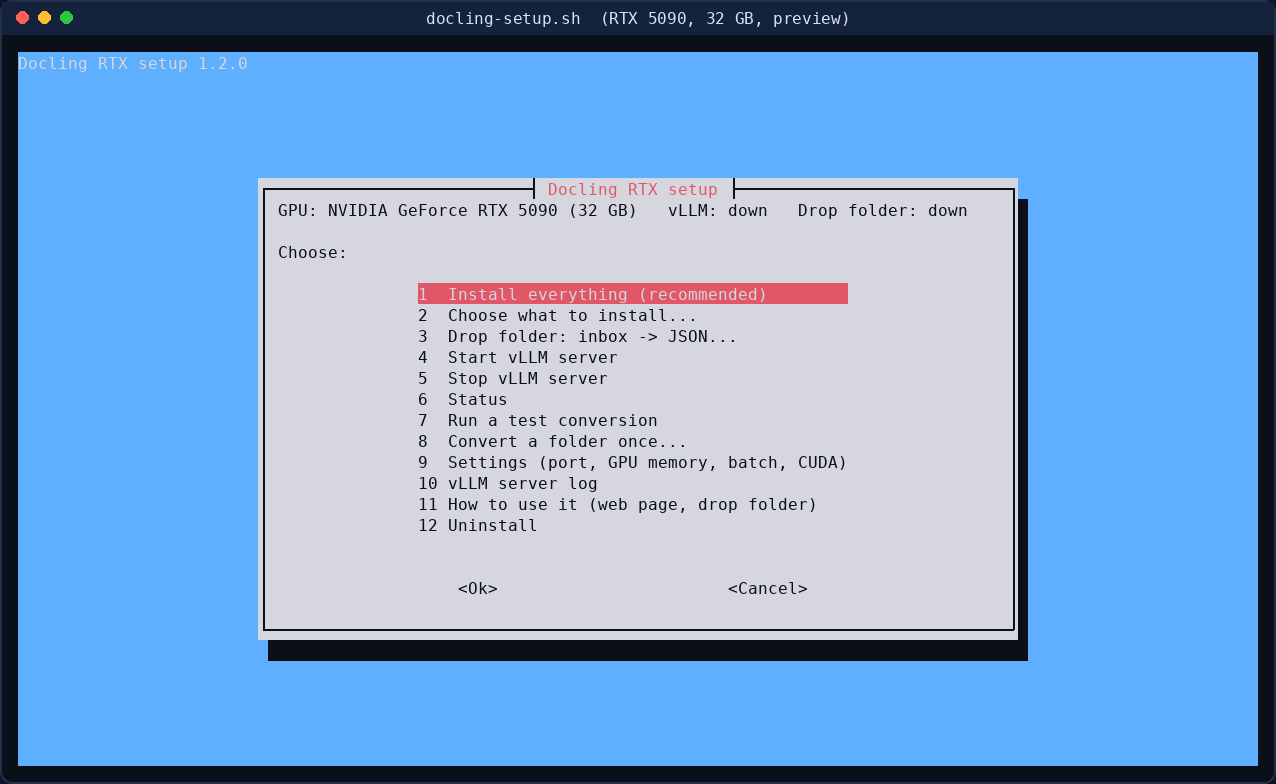
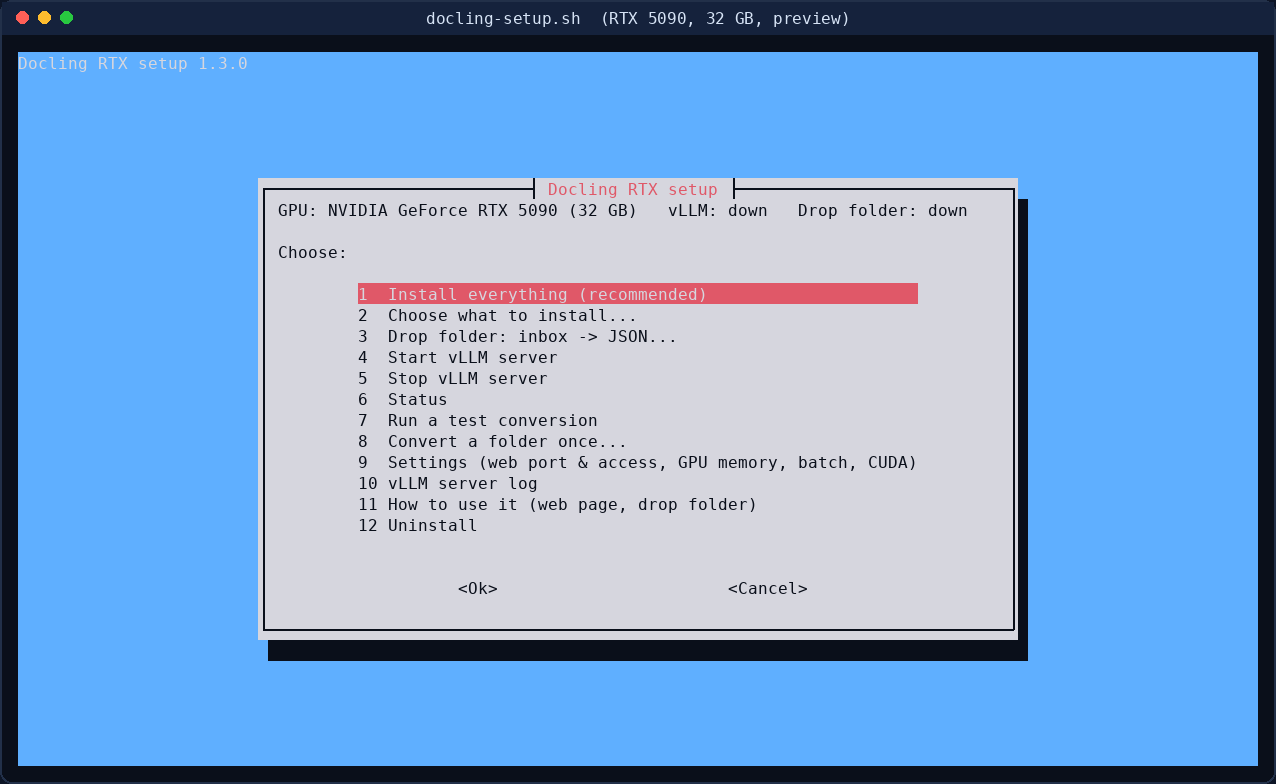
Review fixes (v1.3.0): faster setup, more robust on rented pods
Setup
- vLLM installs on first use (docling-rtx start / vlm engine / WITH_VLM=1), not by default: ~12 GB and minutes saved
- drivers 525-559 use cu126 instead of aborting (common 535/550 pod drivers)
- skip apt when packages are present; warm-up conversion downloads Docling's models during install
- vLLM GPU share: 0.85 with the vlm drop folder, 0.5 when sharing with the standard pipeline

Robustness
- no-systemd: restart loop records the program pid and crashes, so a web page that can't bind its port
  (e.g. Jupyter on 8080) is reported, not shown as UP; stopped services stay stopped; autostart is locked
- Settings: changed vLLM port/memory restarts the running vLLM (whole process group), never a second one
- RunPod: RUNPOD_TCP_PORT_<port> mapping and the HTTPS proxy link
- NO_PROXY for all local traffic (services, converter, Docling's API client)

Converter / web page
- cancel only acts while a conversion runs; timeout reset before each document; late cancel requests cleared
- names with # ? & ' + or non-ASCII: per-segment URL encoding, data attributes instead of inline JS, UTF-8 filenames
- downloads and the outbox zip are streamed (no full copy in RAM)
- uploads/retries start at once (web page pokes the watcher): upload -> JSON in 0.1-0.9 s instead of 5-10 s

diff --git a/web.py b/web.py
@@ -12,10 +12,10 @@ it requires --token (or DOCLING_WEB_TOKEN): open http://HOST:8080/?token=... onc
 
 import argparse
 import hmac
-import io
 import json
 import os
 import shutil
+import tempfile
 import subprocess
 import sys
 import time
@@ -145,6 +145,15 @@ def archive(rel):
     return True
 
 
+def poke(rel):
+    """Wake the watcher now and tell it this inbox file is complete, so it converts it without waiting a scan."""
+    try:
+        with open(Path(A.status_file).expanduser().with_name("poke"), "a") as f:
+            f.write(str(rel) + "\n")
+    except OSError:
+        pass
+
+
 def state():
     inbox, outbox = Path(A.inbox).expanduser(), Path(A.outbox).expanduser()
     try:
@@ -202,6 +211,17 @@ class H(BaseHTTPRequestHandler):
         c = dict(x.strip().split("=", 1) for x in self.headers.get("Cookie", "").split(";") if "=" in x).get("drtx", "")
         return hmac.compare_digest(q, A.token) or hmac.compare_digest(c, A.token)
 
+    def send_file(self, path, ctype, extra=None):
+        """Stream a file (no full copy in memory: a big outbox zip or JSON must not eat the pod's RAM)."""
+        self.send_response(200)
+        self.send_header("Content-Type", ctype)
+        self.send_header("Content-Length", str(path.stat().st_size))
+        for k, v in (extra or {"Cache-Control": "no-store"}).items():
+            self.send_header(k, v)
+        self.end_headers()
+        with open(path, "rb") as f:
+            shutil.copyfileobj(f, self.wfile, 1 << 20)
+
     def send(self, code, body=b"", ctype="text/plain; charset=utf-8", extra=None):
         self.send_response(code)
         self.send_header("Content-Type", ctype)
@@ -237,18 +257,21 @@ class H(BaseHTTPRequestHandler):
             p = self.safe(A.outbox, path[len("/files/"):])
             if not p or not p.is_file():
                 return self.send(404, b"not found")
-            data = p.read_bytes()
+            disp = f"attachment; filename*=UTF-8''{quote(p.name)}"
             ctype = "application/json" if p.suffix == ".json" else "text/plain; charset=utf-8"
-            return self.send(200, data, ctype, {"Content-Disposition": f'attachment; filename="{p.name}"'})
-        if path == "/download/outbox.zip":
-            buf, out = io.BytesIO(), Path(A.outbox).expanduser()
-            with zipfile.ZipFile(buf, "w", zipfile.ZIP_DEFLATED) as z:
-                for f in sorted(out.rglob("*")):
-                    rel = f.relative_to(out)
-                    if f.is_file() and not any(x.startswith(".") for x in rel.parts):
-                        z.write(f, rel)
-            return self.send(200, buf.getvalue(), "application/zip",
-                             {"Content-Disposition": 'attachment; filename="docling-outbox.zip"'})
+            return self.send_file(p, ctype, {"Content-Disposition": disp, "Cache-Control": "no-store"})
+        if path == "/download/outbox.zip":   # built in a temp file on disk, then streamed
+            out = Path(A.outbox).expanduser()
+            with tempfile.NamedTemporaryFile(suffix=".zip") as tmp:
+                with zipfile.ZipFile(tmp, "w", zipfile.ZIP_DEFLATED) as z:
+                    for f in sorted(out.rglob("*")):
+                        rel = f.relative_to(out)
+                        if f.is_file() and not any(x.startswith(".") for x in rel.parts):
+                            z.write(f, rel)
+                tmp.flush()
+                return self.send_file(Path(tmp.name), "application/zip",
+                                      {"Content-Disposition": 'attachment; filename="docling-outbox.zip"',
+                                       "Cache-Control": "no-store"})
         self.send(404, b"not found")
 
     def do_PUT(self):   # upload: PUT /upload/<file name>, raw body
@@ -272,6 +295,7 @@ class H(BaseHTTPRequestHandler):
             tmp.unlink(missing_ok=True)
             return self.send(400, b"upload interrupted")
         os.replace(tmp, inbox / name)
+        poke(name)
         self.send(200, b"ok")
 
     def do_POST(self):   # /retry/<inbox path>: convert again; /cancel/<inbox path>: stop or skip it
@@ -303,6 +327,7 @@ class H(BaseHTTPRequestHandler):
             p = self.safe(A.inbox, path[len("/retry/"):])
             if p and p.is_file():
                 os.utime(p)
+                poke(p.relative_to(Path(A.inbox).expanduser().resolve()))
                 return self.send(200, b"ok")
         self.send(404, b"not found")
 
@@ -345,7 +370,10 @@ button:disabled{opacity:.45;cursor:default}
 <table><thead><tr><th>Document</th><th>Status</th><th>Pages</th><th>Time</th><th>Results</th></tr></thead><tbody id="docs"></tbody></table>
 <p class="dim" id="paths"></p>
 </main><script>
-const $=s=>document.querySelector(s), esc=s=>String(s??'').replace(/[&<>"]/g,c=>({'&':'&amp;','<':'&lt;','>':'&gt;','"':'&quot;'}[c]));
+const $=s=>document.querySelector(s), esc=s=>String(s??'').replace(/[&<>"']/g,c=>({'&':'&amp;','<':'&lt;','>':'&gt;','"':'&quot;',"'":'&#39;'}[c]));
+const enc=p=>String(p).split('/').map(encodeURIComponent).join('/');   // safe for '#', '?', '&', "'", '+' in names
+document.addEventListener('click',e=>{const b=e.target.closest('button[data-act]');if(!b||b.disabled)return;
+  ({cancel:cancelDoc,retry:retry,remove:removeDoc})[b.dataset.act](b.dataset.n)});
 const secs=t=>t==null?'':t<60?Math.round(t)+'s':t<3600?Math.floor(t/60)+'m '+String(Math.round(t%60)).padStart(2,'0')+'s':Math.floor(t/3600)+'h '+String(Math.floor(t%3600/60)).padStart(2,'0')+'m';
 const size=b=>b<1e6?(b/1e3).toFixed(0)+' KB':(b/1e6).toFixed(1)+' MB';
 async function refresh(){
@@ -368,17 +396,17 @@ async function refresh(){
     const left=c.pages_total&&c.pages_done?(c.pages_total-c.pages_done)/rate:null;
     const d=s.docs.find(x=>x.status=='converting'), stopping=d&&d.cancelling;
     const first=c.pages_total&&!c.pages_done?` &middot; the first ${Math.min(s.batch||8,c.pages_total)} pages go through all models together, so page 1 can take a while`:'';
-    $('#cur').innerHTML=`<div class="cur"><div class="curhead"><b>Converting ${esc(c.file)}</b>${d?`<button class="stop" ${stopping?'disabled':''} onclick="cancelDoc('${encodeURI(d.name)}')">${stopping?'Cancelling&hellip;':'Cancel'}</button>`:''}</div><div class="bar"><i style="width:${pct}%"></i></div>
+    $('#cur').innerHTML=`<div class="cur"><div class="curhead"><b>Converting ${esc(c.file)}</b>${d?`<button class="stop" ${stopping?'disabled':''} data-act="cancel" data-n="${esc(d.name)}">${stopping?'Cancelling&hellip;':'Cancel'}</button>`:''}</div><div class="bar"><i style="width:${pct}%"></i></div>
     <span class="dim">${c.pages_total?`page ${c.pages_done} of ${c.pages_total} &middot; `:'loading models / reading the file&hellip; &middot; '}${secs(c.elapsed)} so far${left!=null?` &middot; about ${secs(left)} left`:''}${first}</span></div>`;
   } else $('#cur').innerHTML='';
   $('#docs').innerHTML=s.docs.length?s.docs.map(d=>`<tr><td>${esc(d.name)}<br><span class="dim">${size(d.size)}</span></td>
     <td><span class="st ${d.status}">${d.status}</span>${d.status=='failed'&&d.error?`<div class="err" title="${esc(d.error)}">${esc(why(d.error))}</div>`:''}</td>
     <td>${d.pages||''}</td><td>${d.seconds==null?'':d.seconds<1?'&lt;1s':secs(d.seconds)}</td>
-    <td>${Object.entries(d.files).filter(([f])=>f!='error.json').map(([f,p])=>`<a href="/files/${encodeURI(p)}">${f}</a>`).join('')}
-    ${d.status=='failed'?`<a href="/files/${encodeURI(d.files['error.json'])}">error</a>`:''}
-    ${d.status=='failed'||d.status=='cancelled'?`<button onclick="retry('${encodeURI(d.name)}')">${d.status=='cancelled'?'convert':'retry'}</button>`:''}
-    ${['done','failed','cancelled'].includes(d.status)?`<button title="Remove from the list (the source moves to the archive, the JSON stays)" onclick="removeDoc('${encodeURI(d.name)}')">&times;</button>`:''}
-    ${d.status=='converting'||d.status=='waiting'?`<button class="stop" ${d.cancelling?'disabled':''} onclick="cancelDoc('${encodeURI(d.name)}')">${d.cancelling?'cancelling&hellip;':'cancel'}</button>`:''}</td></tr>`).join('')
+    <td>${Object.entries(d.files).filter(([f])=>f!='error.json').map(([f,p])=>`<a href="/files/${enc(p)}">${f}</a>`).join('')}
+    ${d.status=='failed'?`<a href="/files/${enc(d.files['error.json'])}">error</a>`:''}
+    ${d.status=='failed'||d.status=='cancelled'?`<button data-act="retry" data-n="${esc(d.name)}">${d.status=='cancelled'?'convert':'retry'}</button>`:''}
+    ${['done','failed','cancelled'].includes(d.status)?`<button title="Remove from the list (the source moves to the archive, the JSON stays)" data-act="remove" data-n="${esc(d.name)}">&times;</button>`:''}
+    ${d.status=='converting'||d.status=='waiting'?`<button class="stop" ${d.cancelling?'disabled':''} data-act="cancel" data-n="${esc(d.name)}">${d.cancelling?'cancelling&hellip;':'cancel'}</button>`:''}</td></tr>`).join('')
     :'<tr><td colspan="5" class="dim">No documents yet. Drop some above.</td></tr>';
   $('#paths').textContent=`Inbox: ${s.inbox}   Outbox: ${s.outbox}   Cleared documents: ${s.archive}`;
   const fin=s.docs.filter(d=>['done','failed','cancelled'].includes(d.status)).length;
@@ -395,10 +423,10 @@ function why(e){  // plain-English reason for the common failures; the full text
 async function clearDone(){
   if(!confirm('Remove all finished documents from the list?\nTheir JSON stays in the outbox; the original files move to the archive folder.'))return;
   await fetch('/clear',{method:'POST'});refresh()}
-async function removeDoc(n){const r=await fetch('/remove/'+n,{method:'POST'});if(r.status!=200)alert(await r.text());refresh()}
-async function retry(n){await fetch('/retry/'+n,{method:'POST'});refresh()}
-async function cancelDoc(n){if(!confirm('Stop converting '+decodeURI(n)+'?\nIts pages done so far are discarded. You can convert it again later.'))return;
-  await fetch('/cancel/'+n,{method:'POST'});refresh()}
+async function removeDoc(n){const r=await fetch('/remove/'+enc(n),{method:'POST'});if(r.status!=200)alert(await r.text());refresh()}
+async function retry(n){await fetch('/retry/'+enc(n),{method:'POST'});refresh()}
+async function cancelDoc(n){if(!confirm('Stop converting '+n+'?\nIts pages done so far are discarded. You can convert it again later.'))return;
+  await fetch('/cancel/'+enc(n),{method:'POST'});refresh()}
 async function upload(files){
   for(const f of files){
     $('#up').innerHTML=`<div class="cur">Uploading <b>${esc(f.name)}</b> (${size(f.size)})&hellip;<div class="bar"><i id="ub" style="width:0"></i></div></div>`;

diff --git a/convert.py b/convert.py
@@ -80,8 +80,8 @@ def target(out, rel, ext):
 
 def server_ok(url):
     base = url.split("/v1/")[0]
-    try:
-        with urllib.request.urlopen(base + "/v1/models", timeout=5) as r:
+    try:   # never through http_proxy: the server is local
+        with urllib.request.build_opener(urllib.request.ProxyHandler({})).open(base + "/v1/models", timeout=5) as r:
             return r.status == 200
     except Exception:
         return False
@@ -99,6 +99,7 @@ class Progress:
         self.opts = None            # the pipeline options of the running converter (cancel lowers their timeout)
         self.key = None             # inbox path of the document being converted
         self.cancelled = False
+        self.running = False        # True only inside conv.convert(): a cancel outside it must not touch the options
         self.on_hard_cancel = None
         self.lock = threading.Lock()
         self.s = {"state": "idle", "file": None, "pages_done": 0, "pages_total": 0, "started": None,
@@ -132,16 +133,19 @@ class Progress:
         asked = None
         while True:
             time.sleep(0.5)
-            key = self.key
-            if not key or not self.cancel_requested(key):
-                asked = None
-                continue
-            if not self.cancelled:
-                self.cancelled, asked = True, time.time()
-                print(f"  ...   cancelling {key}", flush=True)
-                if self.opts is not None:
-                    self.opts.document_timeout = 0.001
-            elif asked and time.time() - asked > 30 and self.key == key:
+            with self.lock:   # act only while a convert is running (not while its results are being written)
+                key = self.key if self.running else None
+                if not key or not self.cancel_requested(key):
+                    asked = None
+                    continue
+                if not self.cancelled:
+                    self.cancelled, asked = True, time.time()
+                    print(f"  ...   cancelling {key}", flush=True)
+                    if self.opts is not None:
+                        self.opts.document_timeout = 0.001
+                    continue
+                stuck = asked and time.time() - asked > 30
+            if stuck:   # outside the lock: on_hard_cancel takes it
                 print(f"  ...   {key} didn't stop within 30 s: restarting the converter", flush=True)
                 if self.on_hard_cancel:
                     self.on_hard_cancel()
@@ -187,6 +191,8 @@ class Progress:
 
     def done(self, name, status, pages, secs, error=None):
         with self.lock:
+            if self.key:   # finished, whatever happened: a late cancel request must not hit the next run
+                self.clear_cancel(self.key)
             self.key = None
             item = {"file": name, "status": status, "pages": pages, "seconds": round(secs, 1),
                     "finished": time.time(), "error": error}
@@ -295,8 +301,8 @@ def main():
     ap.add_argument("--overwrite", action="store_true", help="redo documents whose outputs already exist")
     ap.add_argument("--watch", action="store_true",
                     help="drop-folder mode: keep running and convert new or changed files as they arrive")
-    ap.add_argument("--interval", type=float, default=float(os.environ.get("DOCLING_WATCH_INTERVAL", "5")),
-                    help="--watch: seconds between folder scans; a file must be unchanged for one scan (default 5)")
+    ap.add_argument("--interval", type=float, default=float(os.environ.get("DOCLING_WATCH_INTERVAL", "2")),
+                    help="--watch: seconds between folder scans (default 2); a file is converted once it stops changing")
     ap.add_argument("--status-file", default=os.environ.get("DOCLING_STATUS_FILE"),
                     help="write live progress (current document, pages, recent results) to this JSON file")
     a = ap.parse_args()
@@ -370,6 +376,10 @@ def convert_items(conv, todo, out, a, formats, progress):
         if len(todo) > 1 or a.watch:
             print(f"  ...   {name}" + (f"  ({progress.s['pages_total']} pages)" if progress.s["pages_total"] else ""),
                   flush=True)
+        with progress.lock:
+            if progress.opts is not None:
+                progress.opts.document_timeout = None   # never inherit a cancel
+            progress.running = True
         try:
             res = conv.convert(src, raises_on_error=False)
             errors = [e.error_message for e in res.errors]
@@ -378,8 +388,10 @@ def convert_items(conv, todo, out, a, formats, progress):
         except Exception as e:   # a crash on one file must not stop the batch (or the watcher)
             res, good, status, errors = None, False, "failure", [f"{type(e).__name__}: {e}"]
         finally:
-            if progress.opts is not None:
-                progress.opts.document_timeout = None   # undo a cancel
+            with progress.lock:
+                progress.running = False
+                if progress.opts is not None:
+                    progress.opts.document_timeout = None   # undo a cancel
         if progress.cancelled:
             cancelled(src, name, key, err_path, t0)
             continue
@@ -422,8 +434,16 @@ def watch(a, out, formats):
     print(f"Watching {', '.join(a.inputs)} -> {out}  [engine: {a.engine}, formats: {', '.join(formats)}, "
           f"every {a.interval:g}s]. Ctrl+C to stop.", flush=True)
     conv, seen, progress = None, {}, Progress(a.status_file)
+    poke = progress.path.parent / "poke" if progress.path else None
     while True:
         ready = []
+        complete = set()   # inbox paths the web page says are complete (uploads, retries): no need to wait a scan
+        if poke and poke.exists():
+            try:
+                complete = set(poke.read_text().split("\n")) - {""}
+                poke.write_text("")
+            except OSError:
+                pass
         for src, rel in collect(a.inputs, out):
             try:
                 if is_done(src, rel, out, formats, skip_failed=True):
@@ -433,7 +453,8 @@ def watch(a, out, formats):
             except FileNotFoundError:   # removed while we looked
                 continue
             key = (st.st_size, st.st_mtime_ns)
-            if seen.get(src) == key:
+            # complete = unchanged since the last scan, or untouched for 3 s (copies keep bumping the mtime)
+            if seen.get(src) == key or time.time() - st.st_mtime > 3 or str(rel.parent / src.name) in complete:
                 ready.append((src, rel))
             else:
                 seen[src] = key
@@ -445,10 +466,23 @@ def watch(a, out, formats):
                 seen.pop(src, None)
         else:
             progress.queue([p.name for p in seen])   # arriving files (still being copied) + heartbeat
-        time.sleep(a.interval)
+        nap(a.interval, progress)
+
+
+def nap(seconds, progress):
+    """Sleep until the next scan, but wake at once when the web page pokes (upload, retry): no 5-10 s wait."""
+    poke = progress.path.parent / "poke" if progress.path else None
+    seen = poke.stat().st_mtime_ns if poke and poke.exists() else 0
+    end = time.time() + seconds
+    while time.time() < end:
+        time.sleep(0.2)
+        if poke and poke.exists() and poke.stat().st_mtime_ns != seen:
+            return
 
 
 if __name__ == "__main__":
+    for _k in ("NO_PROXY", "no_proxy"):   # Docling's API client (requests) must reach the local vLLM directly
+        os.environ[_k] = ",".join(x for x in ("127.0.0.1,localhost", os.environ.get(_k, "")) if x)
     try:
         main()
     except KeyboardInterrupt:

diff --git a/README.md b/README.md
@@ -8,7 +8,7 @@ It installs [Docling](https://github.com/docling-project/docling) on CUDA PyTorc
 
 ## Use it in 3 steps
 
-**1. Install** (Ubuntu 22.04/24.04 or Debian 12, an NVIDIA GPU, ~20 GB of disk). On the GPU server:
+**1. Install** (Ubuntu 22.04/24.04 or Debian 12, an NVIDIA GPU with driver 525+, ~8 GB of disk). On the GPU server:
 
 ```bash
 curl -fsSL https://raw.githubusercontent.com/codyvolckmar/docling-rtx/main/install.sh | bash
@@ -39,7 +39,7 @@ Or use the menu: `docling-rtx`, Settings. Public mode prints `http://<server-ip>
 
 **No browser?** Copy files into `~/docling/inbox` and collect `~/docling/outbox/<name>.json`, the same pipeline. `docling-rtx watch logs` shows progress, with a line every 10% for long PDFs. The rules for an AI agent reading the outbox are in [GUIDE.md](GUIDE.md#0-the-web-page-and-the-drop-folder-the-main-workflow).
 
-**Rented pods without systemd** (most container GPU hosts): the converter, web page and vLLM run in the background and **start again when you log in** after a reboot. With systemd they're services that start on boot.
+**Rented pods without systemd** (most container GPU hosts): the converter, web page and vLLM run in the background, restart themselves if they crash, and **start again when you log in** after a reboot. A service you stopped stays stopped. With systemd they're services that start on boot.
 
 `docling-rtx` is the command for everything afterwards: `docling-rtx` (menu), `docling-rtx status`, `docling-rtx howto`. To see the plan without installing: `./docling-setup.sh --dry-run` (preview another card with `DOCLING_GPU="RTX 3090:24576:580.95:8.6"`).
 
@@ -49,13 +49,13 @@ Or use the menu: `docling-rtx`, Settings. Public mode prints `http://<server-ip>
 
 | Step | What |
 |---|---|
-| Check | Finds the GPU, VRAM and driver. Picks the PyTorch CUDA build from the driver: cu130 (driver 580+), cu128 (570+, needed for RTX 50) or cu126. Without a driver, it offers to install one (`ubuntu-drivers`, then reboot) or carries on CPU-only. |
-| System | `apt`: curl, git, whiptail, build-essential (Triton compiles kernels), libgl1/libglib2.0 (OpenCV). |
+| Check | Finds the GPU, VRAM and driver. Picks the PyTorch CUDA build from the driver: cu130 (driver 580+), cu128 (570+, needed for RTX 50) or cu126 (525+, the 535/550 drivers common on rented pods). Without a driver, it offers to install one (`ubuntu-drivers`, then reboot) or carries on CPU-only. |
+| System | `apt`: curl, git, whiptail, build-essential (Triton compiles kernels), libgl1/libglib2.0 (OpenCV). Skipped when they're already there. |
 | Python | [uv](https://docs.astral.sh/uv/) with its own Python 3.12, so the system Python is left alone. |
 | Docling | `~/.docling-rtx/venv`: CUDA PyTorch from download.pytorch.org, then `docling`. Prints whether CUDA is available. |
-| vLLM | `~/.docling-rtx/vllm`, a separate venv because vLLM pins its own torch. |
-| Models | granite-docling-258M (the `untied` revision the model card uses for vLLM, plus `main` for in-process use). Docling's layout/table/OCR models download on first use. |
-| Server | `vllm serve` with the RTX guide's settings (`--max-num-seqs 512 --max-num-batched-tokens 8192 --enable-chunked-prefill`), sized to the card: 0.5 of the GPU instead of 0.9 so the drop folder's standard pipeline fits alongside; under 10 GB, 32 parallel pages and 0.7 of the GPU; float16 on pre-RTX 30 cards, on `127.0.0.1:8000` only. Runs as the systemd unit `docling-vllm`, which starts on boot; without systemd it runs as a background process. |
+| Warm-up | Converts a one-line PDF at the end, so Docling's layout, table and OCR models are downloaded and your first document starts right away. |
+| VLM engine (optional) | **Installed on first use**, not by default: `docling-rtx start`, choosing the `vlm` engine in menu 3, or `WITH_VLM=1` at install. vLLM gets its own venv in `~/.docling-rtx/vllm`, because it pins its own torch, plus granite-docling-258M (the `untied` revision the model card uses for vLLM). That saves ~12 GB and several minutes when you only need the standard engine. |
+| Server | `vllm serve` with the RTX guide's settings (`--max-num-seqs 512 --max-num-batched-tokens 8192 --enable-chunked-prefill`), sized to the card: 0.85 of the GPU when the drop folder uses the vlm engine, 0.5 when it shares the card with the standard pipeline; under 10 GB, 32 parallel pages and 0.7 of the GPU; float16 on pre-RTX 30 cards, on `127.0.0.1:8000` only. Runs as the systemd unit `docling-vllm`, which starts on boot; without systemd it runs as a background process. |
 | Drop folder | The `docling-watch` service watches `~/docling/inbox` and writes `<name>.json` (a DoclingDocument) to `~/docling/outbox`, atomically, or `<name>.error.json` on failure. Changed files are converted again. The handover rules are in [GUIDE.md](GUIDE.md#0-the-web-page-and-the-drop-folder-the-main-workflow). |
 | Web page | `docling-web` (or a background process): drag & drop upload into the inbox, live progress from the watcher, downloads, retry. Python standard library only, on `127.0.0.1:8080` (`docling-rtx web public` for a direct link with a key). |
 | Test | `./docling-setup.sh test` converts the Docling paper with both engines into `~/.docling-rtx/test-output/`. |

diff --git a/GUIDE.md b/GUIDE.md
@@ -14,7 +14,7 @@ cp contracts/*.pdf prices.csv memo.docx ~/docling/inbox/
 ls ~/docling/outbox        # contract-a.json  prices.json  memo.json ...
 ```
 
-The `docling-watch` service runs this. It starts on boot and scans the inbox every 5 seconds, including subfolders, whose layout is mirrored in the outbox. Control it with `./docling-setup.sh watch start|stop|restart|logs`, or from menu 3, where you can also change the folders, output formats and engine.
+The `docling-watch` service runs this. It starts on boot and scans the inbox every 2 seconds (uploads from the web page start at once), including subfolders, whose layout is mirrored in the outbox. Control it with `./docling-setup.sh watch start|stop|restart|logs`, or from menu 3, where you can also change the folders, output formats and engine.
 
 **What gets converted:** everything Docling reads. That includes PDF, DOCX/DOC, PPTX/PPT, XLSX/XLS, CSV, ODT/ODS/ODP, HTML, Markdown, TXT, EPUB, AsciiDoc, LaTeX, email (`.eml`, `.msg`), calendars (`.ics`), XML (JATS/USPTO/XBRL) and images (PNG, JPG, TIFF, BMP, WEBP, GIF). The watcher ignores hidden files (`.name`), Office lock files (`~$name`) and audio/video.
 
@@ -24,7 +24,7 @@ The `docling-watch` service runs this. It starts on boot and scans the inbox eve
 2. **`name.json` = success.** It is a [DoclingDocument](https://docling-project.github.io/docling/concepts/docling_document/): text in reading order, headings, lists, tables as cells, page numbers and bounding boxes for PDFs.
 3. **`name.error.json` = failure.** It holds `{"source", "status", "errors", "time"}`. A failed file is not retried until it changes. Drop a fixed version under the same name and the error file is removed once it converts.
 4. **Re-conversion:** if a source file changes (newer mtime), its JSON is rewritten. Deleting a source does not delete its JSON.
-5. **Copying big files in:** a file is converted only after it stays unchanged for one scan. If a copy stalls for more than ~5 s, the file may be converted early and then again once complete. For big network copies, the safest way is to copy under a hidden name and then rename: `cp big.pdf inbox/.big.pdf && mv inbox/.big.pdf inbox/big.pdf`.
+5. **Copying big files in:** a file is converted once it stops changing (unchanged between scans, or untouched for 3 s). If a copy stalls for more than ~3 s, the file may be converted early and then again once complete. For big network copies, the safest way is to copy under a hidden name and then rename: `cp big.pdf inbox/.big.pdf && mv inbox/.big.pdf inbox/big.pdf`.
 
 Reading the JSON, in Python:
 
@@ -80,7 +80,7 @@ Each document prints `ok`, `PART` (some pages failed) or `FAIL` with the reason.
 | `--engine` | What runs | Use it for |
 |---|---|---|
 | `standard` (default) | Docling's layout, TableFormer and OCR models on the GPU | Born-digital PDFs, Office files, HTML. Most accurate tables, and fastest when the PDF already has a text layer. |
-| `vlm` | granite-docling-258M on the vLLM server; each page image becomes DocTags | Scans, photos of pages, equations, code blocks, unusual layouts. vLLM is ~4x faster than llama-server. |
+| `vlm` | granite-docling-258M on the vLLM server (installed on first use: `docling-rtx start`, or pick `vlm` in menu 3); each page image becomes DocTags | Scans, photos of pages, equations, code blocks, unusual layouts. vLLM is ~4x faster than llama-server. |
 | `local` | granite-docling loaded in-process (transformers) | No server running, or a small one-off job. |
 
 If you're unsure, run both on a few typical files and compare the Markdown:
